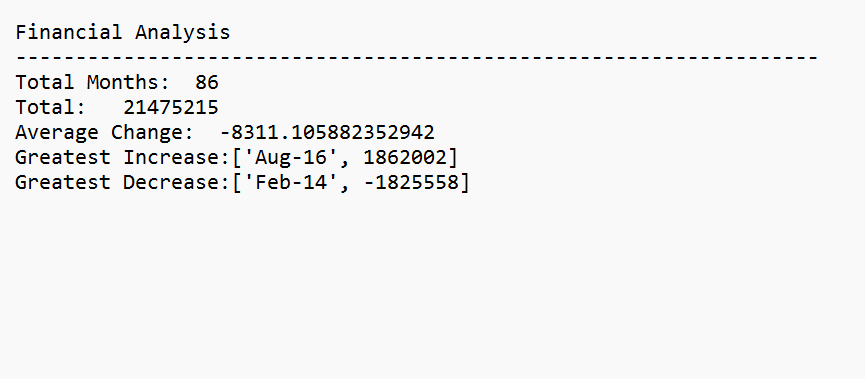
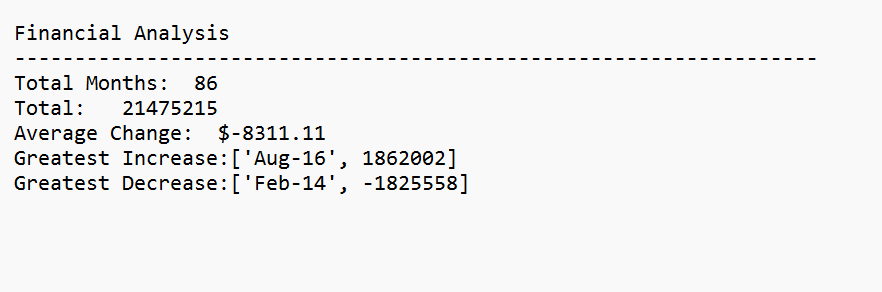
one more time

Changed region(s): [[0.0, 0.1849, 0.9364, 0.6781], [0.0, 0.0616, 0.9364, 0.1541], [0.3746, 0.6473, 0.4058, 0.6781]]

diff --git a/PyBank/Main_Bank.py b/PyBank/Main_Bank.py
@@ -9,6 +9,7 @@ prof_losslist = []
 total = 0
 prof_loss = 0
 average_change = 0
+average_cut = 0
 change_list=[]
 greatest_increase = ["",-10000]
 greatest_decrease = ["",10000]
@@ -40,13 +41,14 @@ with open(bank_csv, encoding="utf_8") as csvfile:
 # Finding the total change and the average change        
 total = sum(prof_losslist)
 average_change = sum(change_list)/len(change_list)
+average_cut = round(average_change,2)
 # Write it to a file and put it on the screen
 with open('Finance_analysis.txt', 'w') as f:
     f.write("Financial Analysis")
     f.write('\n' "-------------------------------------------------------------------")
     f.write('\n' "Total Months:  " + str(len(time) + 1))
     f.write('\n' "Total:   " + str(total))
-    f.write('\n' "Average Change:  " + str(average_change))
+    f.write('\n' "Average Change:  " + "$" + str(average_cut))
     f.write('\n' "Greatest Increase:"  + str(greatest_increase))
     f.write('\n' "Greatest Decrease:" + str(greatest_decrease))
 
@@ -56,7 +58,7 @@ print("---------------------------------------------------------------------")
 
 print("Total Months:  " + str(len(time) + 1))
 print("Total:  " + str(total))
-print("Average Change:  " + str(average_change))
+print("Average Change:  " + "$" + str(average_cut))
 print("Greatest Increase" + str(greatest_increase))
 print("Greatest Decrease" + str(greatest_decrease))
 
